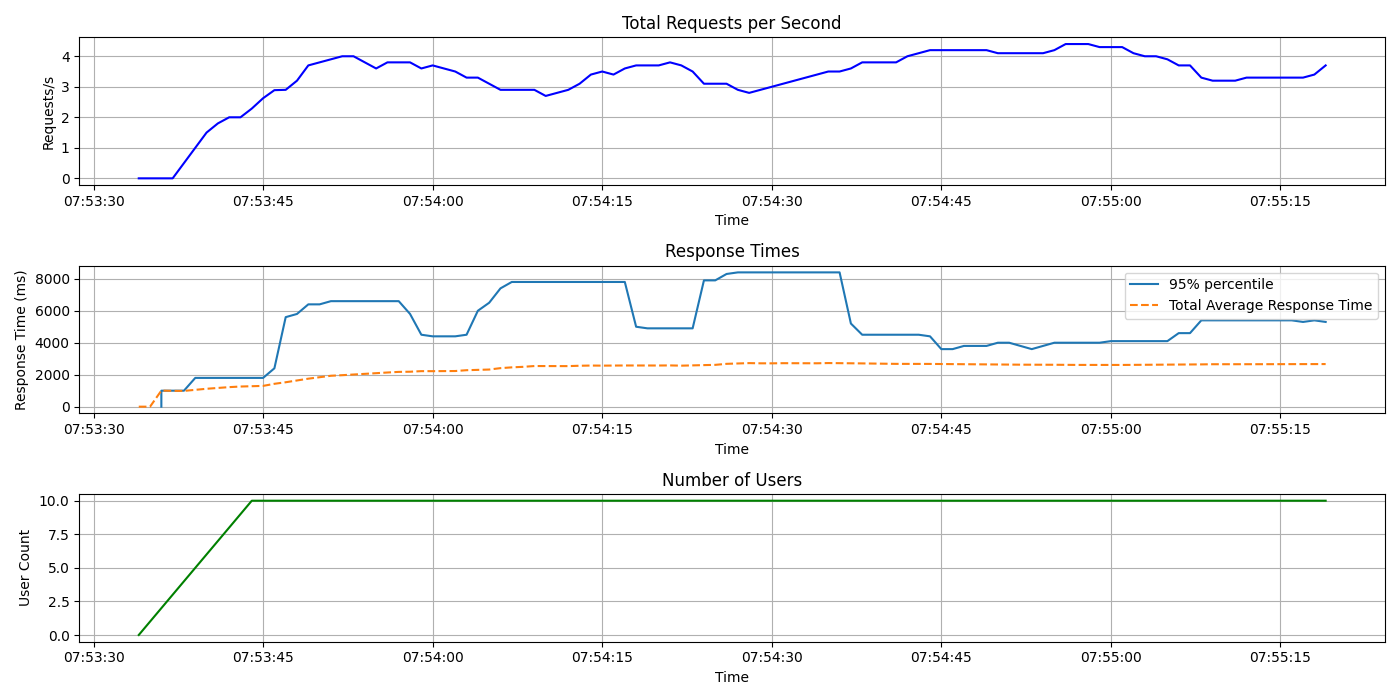
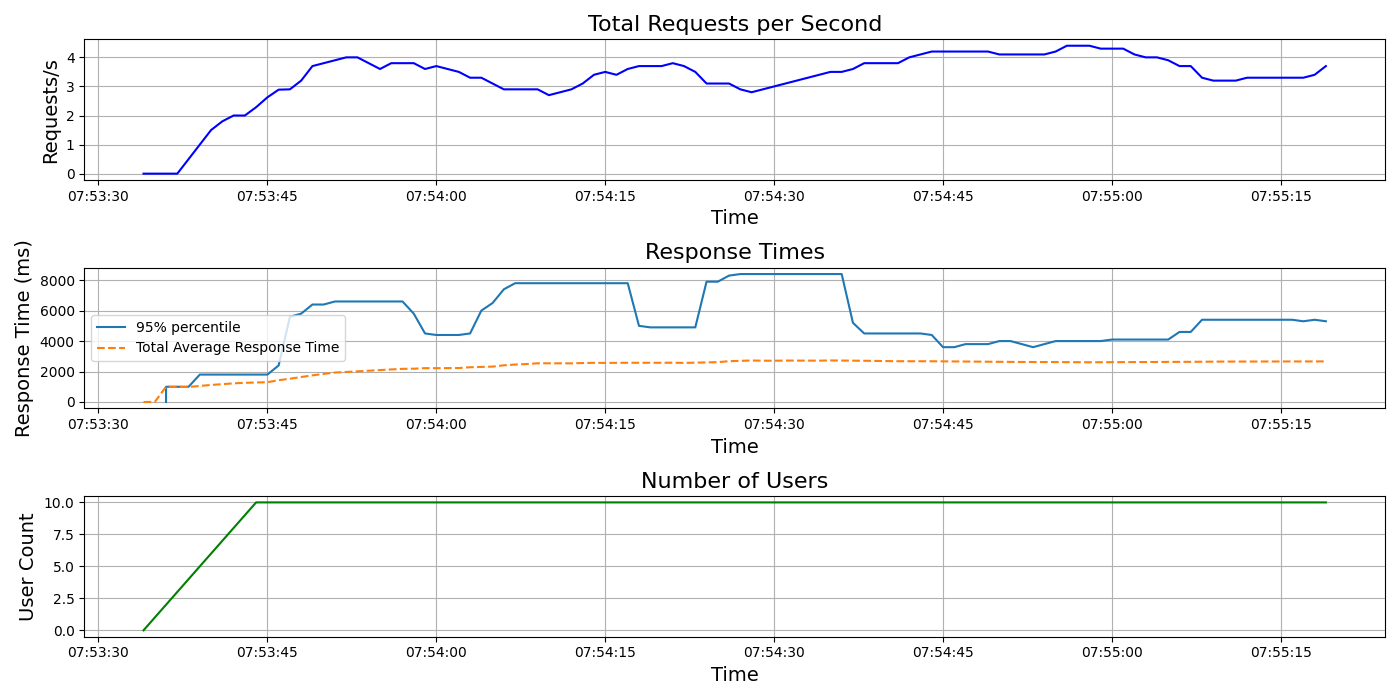
updated benchmark visualisations

diff --git a/local_replica/autoscaler/results/visualise.py b/local_replica/autoscaler/results/visualise.py
@@ -17,9 +17,9 @@ def plot_performance_data(csv_file):
     plt.figure(figsize=(14, 7))
     plt.subplot(3, 1, 1)
     plt.plot(data.index, data['Requests/s'], label='Requests per second', color='blue')
-    plt.title('Total Requests per Second')
-    plt.xlabel('Time')
-    plt.ylabel('Requests/s')
+    plt.title('Total Requests per Second', fontsize=16)
+    plt.xlabel('Time', fontsize=14)
+    plt.ylabel('Requests/s', fontsize=14)
     plt.grid(True)
     
     # Plotting Response Times
@@ -31,18 +31,18 @@ def plot_performance_data(csv_file):
     if 'Total Average Response Time' in data.columns:
         plt.plot(data.index, data['Total Average Response Time'], label='Total Average Response Time', linestyle='--')
 
-    plt.title('Response Times')
-    plt.xlabel('Time')
-    plt.ylabel('Response Time (ms)')
-    plt.legend()
+    plt.title('Response Times', fontsize=16)
+    plt.xlabel('Time', fontsize=14)
+    plt.ylabel('Response Time (ms)', fontsize=14)
+    plt.legend(fontsize=12)
     plt.grid(True)
     
     # Plotting Number of Users
     plt.subplot(3, 1, 3)
     plt.plot(data.index, data['User Count'], label='Number of Users', color='green')
-    plt.title('Number of Users')
-    plt.xlabel('Time')
-    plt.ylabel('User Count')
+    plt.title('Number of Users', fontsize=16)
+    plt.xlabel('Time', fontsize=14)
+    plt.ylabel('User Count', fontsize=14)
     plt.grid(True)
     
     # Display the plots

diff --git a/cloud/1_rep/results/visualise.py b/cloud/1_rep/results/visualise.py
@@ -17,9 +17,9 @@ def plot_performance_data(csv_file):
     plt.figure(figsize=(14, 7))
     plt.subplot(3, 1, 1)
     plt.plot(data.index, data['Requests/s'], label='Requests per second', color='blue')
-    plt.title('Total Requests per Second')
-    plt.xlabel('Time')
-    plt.ylabel('Requests/s')
+    plt.title('Total Requests per Second', fontsize=16)
+    plt.xlabel('Time', fontsize=14)
+    plt.ylabel('Requests/s', fontsize=14)
     plt.grid(True)
     
     # Plotting Response Times
@@ -31,18 +31,18 @@ def plot_performance_data(csv_file):
     if 'Total Average Response Time' in data.columns:
         plt.plot(data.index, data['Total Average Response Time'], label='Total Average Response Time', linestyle='--')
 
-    plt.title('Response Times')
-    plt.xlabel('Time')
-    plt.ylabel('Response Time (ms)')
+    plt.title('Response Times', fontsize=16)
+    plt.xlabel('Time', fontsize=14)
+    plt.ylabel('Response Time (ms)', fontsize=14)
     plt.legend()
     plt.grid(True)
     
     # Plotting Number of Users
     plt.subplot(3, 1, 3)
     plt.plot(data.index, data['User Count'], label='Number of Users', color='green')
-    plt.title('Number of Users')
-    plt.xlabel('Time')
-    plt.ylabel('User Count')
+    plt.title('Number of Users', fontsize=16)
+    plt.xlabel('Time', fontsize=14)
+    plt.ylabel('User Count', fontsize=14)
     plt.grid(True)
     
     # Display the plots

diff --git a/cloud/2_rep/results/visualise.py b/cloud/2_rep/results/visualise.py
@@ -17,9 +17,9 @@ def plot_performance_data(csv_file):
     plt.figure(figsize=(14, 7))
     plt.subplot(3, 1, 1)
     plt.plot(data.index, data['Requests/s'], label='Requests per second', color='blue')
-    plt.title('Total Requests per Second')
-    plt.xlabel('Time')
-    plt.ylabel('Requests/s')
+    plt.title('Total Requests per Second', fontsize=16)
+    plt.xlabel('Time', fontsize=14)
+    plt.ylabel('Requests/s', fontsize=14)
     plt.grid(True)
     
     # Plotting Response Times
@@ -31,18 +31,18 @@ def plot_performance_data(csv_file):
     if 'Total Average Response Time' in data.columns:
         plt.plot(data.index, data['Total Average Response Time'], label='Total Average Response Time', linestyle='--')
 
-    plt.title('Response Times')
-    plt.xlabel('Time')
-    plt.ylabel('Response Time (ms)')
+    plt.title('Response Times', fontsize=16)
+    plt.xlabel('Time', fontsize=14)
+    plt.ylabel('Response Time (ms)', fontsize=14)
     plt.legend()
     plt.grid(True)
     
     # Plotting Number of Users
     plt.subplot(3, 1, 3)
     plt.plot(data.index, data['User Count'], label='Number of Users', color='green')
-    plt.title('Number of Users')
-    plt.xlabel('Time')
-    plt.ylabel('User Count')
+    plt.title('Number of Users', fontsize=16)
+    plt.xlabel('Time', fontsize=14)
+    plt.ylabel('User Count', fontsize=14)
     plt.grid(True)
     
     # Display the plots

diff --git a/cloud/4_rep/results 10user/visualise.py b/cloud/4_rep/results 10user/visualise.py
@@ -17,9 +17,9 @@ def plot_performance_data(csv_file):
     plt.figure(figsize=(14, 7))
     plt.subplot(3, 1, 1)
     plt.plot(data.index, data['Requests/s'], label='Requests per second', color='blue')
-    plt.title('Total Requests per Second')
-    plt.xlabel('Time')
-    plt.ylabel('Requests/s')
+    plt.title('Total Requests per Second', fontsize=16)
+    plt.xlabel('Time', fontsize=14)
+    plt.ylabel('Requests/s', fontsize=14)
     plt.grid(True)
     
     # Plotting Response Times
@@ -31,18 +31,18 @@ def plot_performance_data(csv_file):
     if 'Total Average Response Time' in data.columns:
         plt.plot(data.index, data['Total Average Response Time'], label='Total Average Response Time', linestyle='--')
 
-    plt.title('Response Times')
-    plt.xlabel('Time')
-    plt.ylabel('Response Time (ms)')
+    plt.title('Response Times', fontsize=16)
+    plt.xlabel('Time', fontsize=14)
+    plt.ylabel('Response Time (ms)', fontsize=14)
     plt.legend()
     plt.grid(True)
     
     # Plotting Number of Users
     plt.subplot(3, 1, 3)
     plt.plot(data.index, data['User Count'], label='Number of Users', color='green')
-    plt.title('Number of Users')
-    plt.xlabel('Time')
-    plt.ylabel('User Count')
+    plt.title('Number of Users', fontsize=16)
+    plt.xlabel('Time', fontsize=14)
+    plt.ylabel('User Count', fontsize=14)
     plt.grid(True)
     
     # Display the plots

diff --git a/cloud/4_rep/results/visualise.py b/cloud/4_rep/results/visualise.py
@@ -17,9 +17,9 @@ def plot_performance_data(csv_file):
     plt.figure(figsize=(14, 7))
     plt.subplot(3, 1, 1)
     plt.plot(data.index, data['Requests/s'], label='Requests per second', color='blue')
-    plt.title('Total Requests per Second')
-    plt.xlabel('Time')
-    plt.ylabel('Requests/s')
+    plt.title('Total Requests per Second', fontsize=16)
+    plt.xlabel('Time', fontsize=14)
+    plt.ylabel('Requests/s', fontsize=14)
     plt.grid(True)
     
     # Plotting Response Times
@@ -31,18 +31,18 @@ def plot_performance_data(csv_file):
     if 'Total Average Response Time' in data.columns:
         plt.plot(data.index, data['Total Average Response Time'], label='Total Average Response Time', linestyle='--')
 
-    plt.title('Response Times')
-    plt.xlabel('Time')
-    plt.ylabel('Response Time (ms)')
+    plt.title('Response Times', fontsize=16)
+    plt.xlabel('Time', fontsize=14)
+    plt.ylabel('Response Time (ms)', fontsize=14)
     plt.legend()
     plt.grid(True)
     
     # Plotting Number of Users
     plt.subplot(3, 1, 3)
     plt.plot(data.index, data['User Count'], label='Number of Users', color='green')
-    plt.title('Number of Users')
-    plt.xlabel('Time')
-    plt.ylabel('User Count')
+    plt.title('Number of Users', fontsize=16)
+    plt.xlabel('Time', fontsize=14)
+    plt.ylabel('User Count', fontsize=14)
     plt.grid(True)
     
     # Display the plots

diff --git a/cloud/autoscaler/results-coldstart/visualise.py b/cloud/autoscaler/results-coldstart/visualise.py
@@ -17,9 +17,9 @@ def plot_performance_data(csv_file):
     plt.figure(figsize=(14, 7))
     plt.subplot(2, 1, 1)
     plt.plot(data.index, data['Requests/s'], label='Requests per second', color='blue')
-    plt.title('Total Requests per Second')
-    plt.xlabel('Time')
-    plt.ylabel('Requests/s')
+    plt.title('Total Requests per Second', fontsize=16)
+    plt.xlabel('Time', fontsize=14)
+    plt.ylabel('Requests/s', fontsize=14)
     plt.grid(True)
     
     # Plotting Response Times
@@ -31,9 +31,9 @@ def plot_performance_data(csv_file):
     if 'Total Average Response Time' in data.columns:
         plt.plot(data.index, data['Total Average Response Time'], label='Total Average Response Time', linestyle='--')
 
-    plt.title('Response Times')
-    plt.xlabel('Time')
-    plt.ylabel('Response Time (ms)')
+    plt.title('Response Times', fontsize=16)
+    plt.xlabel('Time', fontsize=14)
+    plt.ylabel('Response Time (ms)', fontsize=14)
     plt.legend()
     plt.grid(True)
 

diff --git a/cloud/autoscaler/results-readystart/visualise.py b/cloud/autoscaler/results-readystart/visualise.py
@@ -17,9 +17,9 @@ def plot_performance_data(csv_file):
     plt.figure(figsize=(14, 7))
     plt.subplot(2, 1, 1)
     plt.plot(data.index, data['Requests/s'], label='Requests per second', color='blue')
-    plt.title('Total Requests per Second')
-    plt.xlabel('Time')
-    plt.ylabel('Requests/s')
+    plt.title('Total Requests per Second', fontsize=16)
+    plt.xlabel('Time', fontsize=14)
+    plt.ylabel('Requests/s', fontsize=14)
     plt.grid(True)
     
     # Plotting Response Times
@@ -31,9 +31,9 @@ def plot_performance_data(csv_file):
     if 'Total Average Response Time' in data.columns:
         plt.plot(data.index, data['Total Average Response Time'], label='Total Average Response Time', linestyle='--')
 
-    plt.title('Response Times')
-    plt.xlabel('Time')
-    plt.ylabel('Response Time (ms)')
+    plt.title('Response Times', fontsize=16)
+    plt.xlabel('Time', fontsize=14)
+    plt.ylabel('Response Time (ms)', fontsize=14)
     plt.legend()
     plt.grid(True)
 

diff --git a/cloud/autoscaler/results-recover-start/visualise.py b/cloud/autoscaler/results-recover-start/visualise.py
@@ -17,9 +17,9 @@ def plot_performance_data(csv_file):
     plt.figure(figsize=(14, 7))
     plt.subplot(2, 1, 1)
     plt.plot(data.index, data['Requests/s'], label='Requests per second', color='blue')
-    plt.title('Total Requests per Second')
-    plt.xlabel('Time')
-    plt.ylabel('Requests/s')
+    plt.title('Total Requests per Second', fontsize=16)
+    plt.xlabel('Time', fontsize=14)
+    plt.ylabel('Requests/s', fontsize=14)
     plt.grid(True)
     
     # Plotting Response Times
@@ -31,9 +31,9 @@ def plot_performance_data(csv_file):
     if 'Total Average Response Time' in data.columns:
         plt.plot(data.index, data['Total Average Response Time'], label='Total Average Response Time', linestyle='--')
 
-    plt.title('Response Times')
-    plt.xlabel('Time')
-    plt.ylabel('Response Time (ms)')
+    plt.title('Response Times', fontsize=16)
+    plt.xlabel('Time', fontsize=14)
+    plt.ylabel('Response Time (ms)', fontsize=14)
     plt.legend()
     plt.grid(True)
 

diff --git a/local_baseline/results/base_visualisation.py b/local_baseline/results/base_visualisation.py
@@ -34,10 +34,13 @@ for label in labels:
     if label in times:
         plt.plot(times[label], label=label)
 
-plt.xlabel('Iteration')
-plt.ylabel('Time (s)')
-plt.title('Time taken for 1000 iterations across different setups')
-plt.legend()
+plt.xlabel('Iteration', fontsize=14)
+plt.ylabel('Time (s)', fontsize=14)
+plt.title('Time taken for 1000 iterations across different setups', fontsize=16)
+plt.xticks(fontsize=12) 
+plt.yticks(fontsize=12)  
+plt.legend(fontsize=12) 
+
 plt.savefig('comparison_times.png')  # Save the figure to file
 
 # write out the average times, standard deviation and confidence intervals
